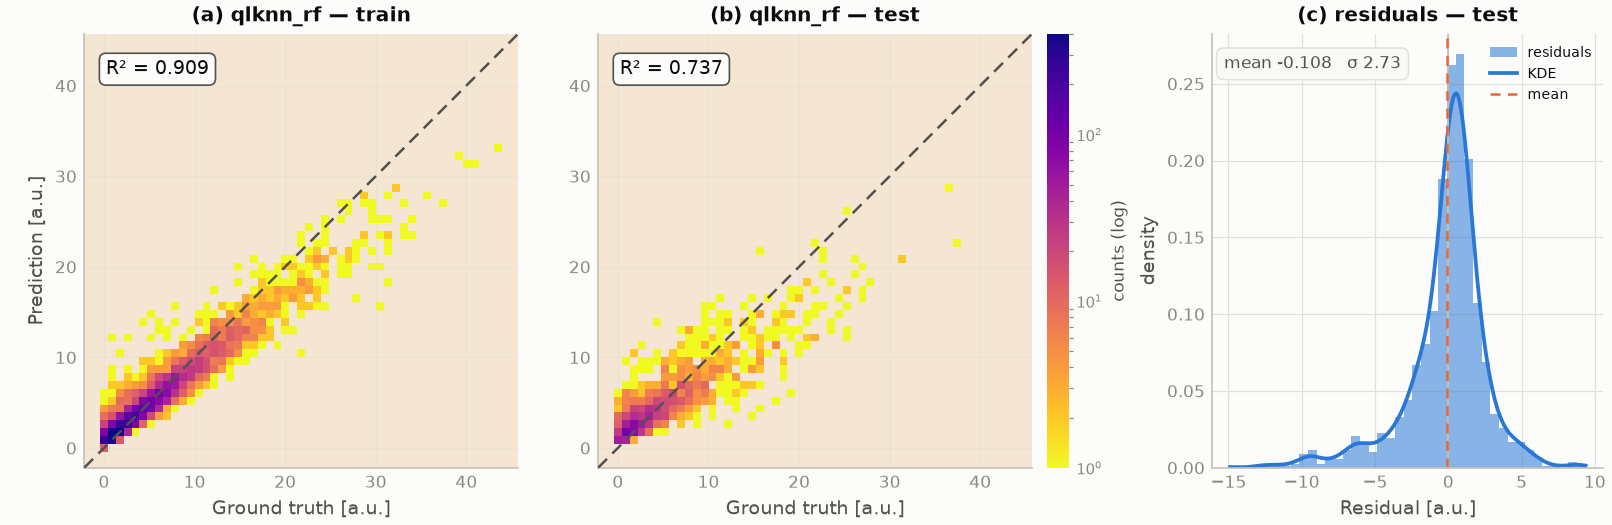
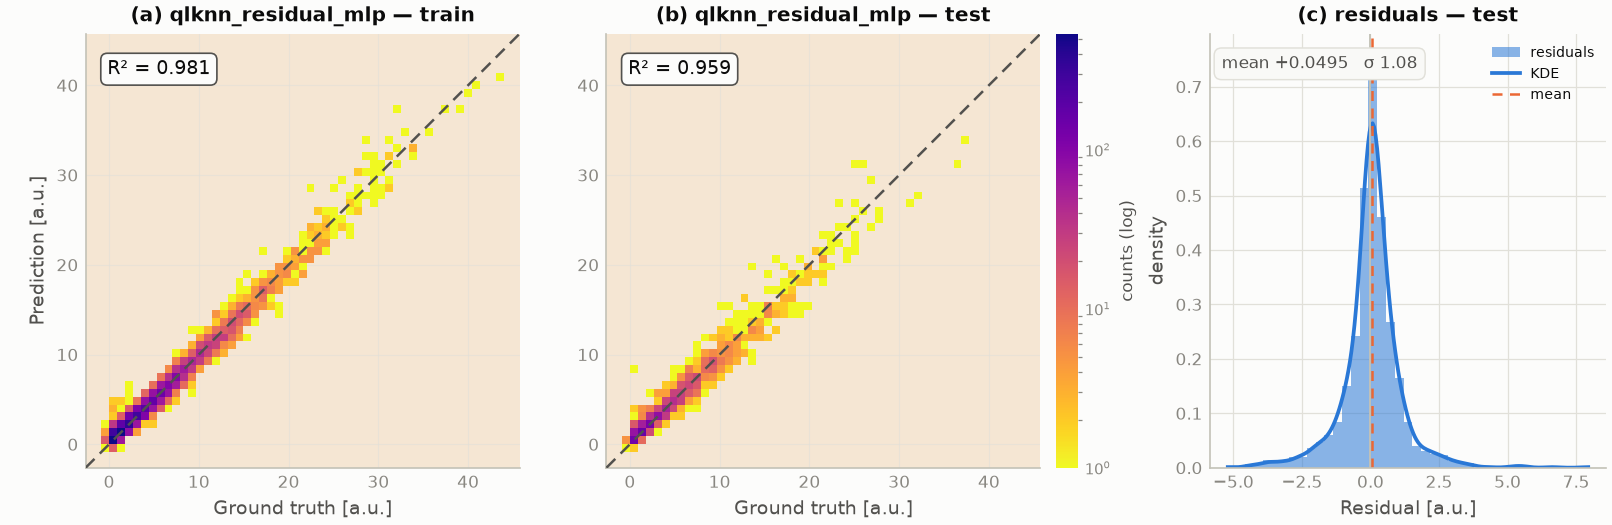
docs(readme): architecture poster hero, publications, monitoring/MLflow, strongest results
- scripts/make_architecture_poster.py renders the by-functionality
  architecture panel (ingest/characterize -> model/optimize ->
  evaluate/quantify -> report/deploy) with real result thumbnails and a
  provenance strip; docs/assets/readme/architecture.png becomes the
  README hero (Burgers figure moves into the results grid)
- parity showcase now uses the strongest model in the run (HPO-tuned
  residual MLP, R2 0.98 train / 0.96 test) instead of the RF baseline;
  gallery + readme assets refreshed (incl. characterization with the
  PCA panel)
- results grid gains training-monitoring (per-epoch JSONL curves) with
  the MLflow opt-in noted, ordered science-first
- 'SURGE in publications' section: Nuclear Fusion ICRF surrogate paper
  and EPJ Web of Conferences (RF Power in Plasmas 2026, art. 01005)

diff --git a/scripts/make_architecture_poster.py b/scripts/make_architecture_poster.py
@@ -1,0 +1,155 @@
+#!/usr/bin/env python3
+"""Render the SURGE architecture poster (README hero figure).
+
+A single panel that explains the workflow BY FUNCTIONALITY, with real
+result thumbnails embedded per stage — regenerated, never hand-drawn:
+
+    INGEST & CHARACTERIZE -> MODEL & OPTIMIZE -> EVALUATE & QUANTIFY
+    -> REPORT & DEPLOY, over a provenance strip.
+
+Usage (from repo root):
+    python scripts/make_architecture_poster.py \
+        [--assets docs/assets/gallery] [--out docs/assets/readme/architecture]
+"""
+from __future__ import annotations
+
+import argparse
+import sys
+from pathlib import Path
+
+_REPO = Path(__file__).resolve().parent.parent
+if str(_REPO) not in sys.path:
+    sys.path.insert(0, str(_REPO))
+
+import matplotlib
+
+matplotlib.use("Agg")
+import matplotlib.image as mpimg
+import matplotlib.pyplot as plt
+from matplotlib.patches import FancyArrowPatch, FancyBboxPatch
+
+from surge.viz.theme import save_figure, surge_theme
+
+COLUMNS = [
+    {
+        "title": "1 · INGEST &\nCHARACTERIZE",
+        "chips": ["CSV · Parquet · HDF5", "NetCDF · Pickle · sim dirs",
+                  "schema inference", "PCA · SNR · correlations"],
+        "thumb": "characterization.png",
+        "caption": "dataset characterization",
+    },
+    {
+        "title": "2 · MODEL &\nOPTIMIZE",
+        "chips": ["40+ adapters, one registry", "sklearn · PyTorch · Keras/TF",
+                  "GPflow · XGB/LGBM/CatBoost", "Optuna HPO (TPE · BoTorch)"],
+        "thumb": "hpo_convergence.png",
+        "caption": "HPO with starred bests",
+    },
+    {
+        "title": "3 · EVALUATE &\nQUANTIFY",
+        "chips": ["held-out metrics per split", "parity · residuals · fields",
+                  "GP credible bands (UQ)", "classification + calibration"],
+        "thumb": "parity.png",
+        "caption": "train/test parity density",
+    },
+    {
+        "title": "4 · REPORT &\nDEPLOY",
+        "chips": ["benchmark leaderboards", "self-contained HTML report",
+                  "MLflow tracking (opt-in)", "ONNX / .keras / joblib export"],
+        "thumb": "leaderboard.png",
+        "caption": "leaderboard vs thresholds",
+    },
+]
+
+PROVENANCE = ("every run reproducible from runs/<tag>/ :   spec.yaml   ·   "
+              "git revision   ·   environment   ·   metrics.json   ·   "
+              "model card   ·   parquet predictions   ·   training logs")
+
+
+def build(assets: Path, mode: str = "light"):
+    with surge_theme(mode) as p:
+        fig = plt.figure(figsize=(12.4, 6.4))
+        ax = fig.add_axes([0, 0, 1, 1])
+        ax.set_xlim(0, 100)
+        ax.set_ylim(0, 100)
+        ax.axis("off")
+        fig.patch.set_facecolor(p["page"])
+
+        ax.text(3, 94.5, "SURGE", fontsize=26, fontweight="bold",
+                color=p["ink"], va="center")
+        ax.text(14.5, 94.5,
+                "one declarative workflow for scientific surrogate models "
+                "— YAML in, reproducible science out",
+                fontsize=12.5, color=p["ink2"], va="center")
+
+        col_w, gap, x0, y0, col_h = 22.0, 2.0, 3.0, 14.5, 72.0
+        for i, col in enumerate(COLUMNS):
+            x = x0 + i * (col_w + gap)
+            ax.add_patch(FancyBboxPatch(
+                (x, y0), col_w, col_h,
+                boxstyle="round,pad=0.6,rounding_size=1.4",
+                facecolor=p["surface"], edgecolor=p["grid"], linewidth=1.2))
+            ax.add_patch(FancyBboxPatch(
+                (x, y0 + col_h - 1.2), col_w, 1.2,
+                boxstyle="round,pad=0.0,rounding_size=0.5",
+                facecolor=p["series"][i % 4], edgecolor="none", alpha=0.9))
+            ax.text(x + col_w / 2, y0 + col_h - 6.5, col["title"],
+                    ha="center", va="center", fontsize=11.5,
+                    fontweight="bold", color=p["ink"], linespacing=1.3)
+
+            for j, chip in enumerate(col["chips"]):
+                cy = y0 + col_h - 13.5 - j * 4.6
+                ax.text(x + col_w / 2, cy, chip, ha="center", va="center",
+                        fontsize=8.4, color=p["ink2"],
+                        bbox={"boxstyle": "round,pad=0.32",
+                              "facecolor": p["page"],
+                              "edgecolor": p["grid"], "linewidth": 0.7})
+
+            thumb_path = assets / col["thumb"]
+            if thumb_path.exists():
+                img = mpimg.imread(thumb_path)
+                ih, iw = img.shape[:2]
+                band_lo, band_hi = y0 + 6.0, y0 + 33.0   # fixed image band
+                tw = col_w - 3.0
+                th = tw * ih / iw * (12.4 / 6.4)
+                if th > band_hi - band_lo:               # too tall: shrink
+                    tw *= (band_hi - band_lo) / th
+                    th = band_hi - band_lo
+                cy = (band_lo + band_hi - th) / 2        # center in band
+                cx = x + (col_w - tw) / 2
+                iax = fig.add_axes([cx / 100, cy / 100, tw / 100, th / 100])
+                iax.imshow(img)
+                iax.axis("off")
+            ax.text(x + col_w / 2, y0 + 3.4, col["caption"],
+                    ha="center", va="center", fontsize=7.6,
+                    style="italic", color=p["muted"])
+
+        for i in range(len(COLUMNS) - 1):
+            xa = x0 + (i + 1) * col_w + i * gap + 0.35
+            ax.add_patch(FancyArrowPatch(
+                (xa, y0 + col_h * 0.55), (xa + gap - 0.7, y0 + col_h * 0.55),
+                arrowstyle="-|>", mutation_scale=16,
+                color=p["ink2"], linewidth=1.6))
+
+        ax.add_patch(FancyBboxPatch(
+            (x0, 4.2), 4 * col_w + 3 * gap, 6.6,
+            boxstyle="round,pad=0.5,rounding_size=1.2",
+            facecolor=p["surface"], edgecolor=p["series"][0],
+            linewidth=1.2))
+        ax.text(x0 + (4 * col_w + 3 * gap) / 2, 7.5, PROVENANCE,
+                ha="center", va="center", fontsize=8.8, color=p["ink2"])
+        return fig
+
+
+def main() -> None:
+    ap = argparse.ArgumentParser()
+    ap.add_argument("--assets", default=str(_REPO / "docs/assets/gallery"))
+    ap.add_argument("--out", default=str(_REPO / "docs/assets/readme/architecture"))
+    args = ap.parse_args()
+    fig = build(Path(args.assets))
+    for path in save_figure(fig, Path(args.out), formats=("png",)):
+        print("wrote", path)
+
+
+if __name__ == "__main__":
+    main()

diff --git a/examples/viz_theme_gallery.py b/examples/viz_theme_gallery.py
@@ -85,7 +85,10 @@ def parity_figure(run_dir: Path, mode: str, units: str = "a.u."):
     from sklearn.metrics import r2_score
 
     metrics = json.loads((run_dir / "metrics.json").read_text())
-    model_key = next(iter(metrics))
+    # showcase the strongest model in the run (highest test R²)
+    model_key = max(
+        metrics,
+        key=lambda k: (metrics[k].get("test") or {}).get("r2", float("-inf")))
     splits = {}
     for split in ("train", "test"):
         try:

diff --git a/README.md b/README.md
@@ -17,14 +17,13 @@ with every run reproducible from its own `runs/<tag>/` directory.
 [DOI 10.11578/dc.20260422.5](https://doi.org/10.11578/dc.20260422.5)
 
 <p align="center">
-  <img src="docs/assets/readme/field_operator.png"
-       alt="Burgers' 1D operator learning: best/median/worst test samples, signed-error field, and error distribution — generated by SURGE from run artifacts"
-       width="820"/>
+  <img src="docs/assets/readme/architecture.png"
+       alt="SURGE architecture: ingest & characterize, model & optimize, evaluate & quantify, report & deploy — with real result figures embedded per stage and a provenance strip"
+       width="900"/>
 </p>
-<p align="center"><sub><em>Operator learning on viscous Burgers' equation
-(residual MLP via the SURGE registry): sample fits, signed-error field over
-the test set, and per-sample error distribution — every figure generated
-from run artifacts, never hand-assembled.</em></sub></p>
+<p align="center"><sub><em>The workflow by functionality — every thumbnail is a
+real SURGE output, regenerated from run artifacts
+(<code>python scripts/make_architecture_poster.py</code>).</em></sub></p>
 
 ---
 
@@ -89,9 +88,11 @@ sortable tables — generated exclusively from
 | | |
 |:---:|:---:|
 | <img src="docs/assets/readme/parity.png" width="400" alt="Train/test parity density plots with reversed-plasma colormap and R² boxes"/> | <img src="docs/assets/readme/hpo_convergence.png" width="400" alt="HPO history with running best and starred best trials"/> |
-| *Regression parity (QLKNN ITG heat-flux surrogate): log-scaled density, R² 0.91 train / 0.74 test for the RF baseline — the HPO-tuned residual MLP reaches 0.96 test.* | *Optuna HPO across models: per-trial traces, running best, gold star at each optimum.* |
-| <img src="docs/assets/readme/uncertainty.png" width="400" alt="GP surrogate with 68/95% credible bands"/> | <img src="docs/assets/readme/characterization.png" width="400" alt="Dataset characterization panel"/> |
-| *Gaussian-process surrogate with 68/95% credible bands — the band widens where training data is absent (96% truth coverage).* | *Pre-training dataset characterization: distributions, signal-to-noise, input–target correlations.* |
+| *Plasma-transport surrogate (QLKNN ITG heat flux): HPO-tuned residual MLP, R² **0.98 train / 0.96 test**, log-density parity in the style of the ICRF surrogate papers.* | *Optuna HPO across models: per-trial traces, running best, gold star at each optimum.* |
+| <img src="docs/assets/readme/field_operator.png" width="400" alt="Burgers operator learning: sample fits, signed-error field, error distribution"/> | <img src="docs/assets/readme/uncertainty.png" width="400" alt="GP surrogate with 68/95% credible bands"/> |
+| *Operator learning on viscous Burgers' equation: best/median/worst test samples, signed-error field, per-sample rel-L2 distribution.* | *Gaussian-process surrogate with 68/95% credible bands — the band widens where training data is absent (96% truth coverage).* |
+| <img src="docs/assets/gallery/training_curves.png" width="400" alt="Training monitoring: train/val loss with generalisation gap and best epoch"/> | <img src="docs/assets/readme/characterization.png" width="400" alt="Dataset characterization panel with PCA spectrum"/> |
+| *Live training monitoring from per-epoch JSONL logs: generalisation gap shaded, best epoch starred; opt-in MLflow tracking mirrors every run (`mlflow_tracking: true` in the spec, or `surge bench --mlflow`).* | *Pre-training dataset characterization: distributions, signal-to-noise, input–target correlations, PCA effective dimensionality.* |
 
 Regenerate everything above from your own runs — full gallery per
 problem type in [`docs/gallery.md`](docs/gallery.md):
@@ -276,10 +277,21 @@ Gallery of every figure type: `python examples/viz_theme_gallery.py`.
 | Architecture roadmap | [`docs/design/ARCHITECTURE_RECOMMENDATIONS.md`](docs/design/ARCHITECTURE_RECOMMENDATIONS.md) |
 | Doc index | [`docs/README.md`](docs/README.md) |
 
-SURGE methodology in the literature: Á. Sánchez-Villar et al.,
-*real-time capable ICRF heating surrogates for NSTX-U and WEST*
-(Nuclear Fusion) — the parity/HPO figure conventions above follow those
-publications.
+## SURGE in publications
+
+The methodology and figure conventions above come from peer-reviewed
+surrogate-modeling work by the SURGE authors:
+
+- Á. Sánchez-Villar *et al.*, *Real-time capable modeling of ICRF heating
+  on NSTX-U and WEST via machine-learning approaches*, **Nuclear Fusion**.
+- Á. Sánchez-Villar *et al.*, *Automated ICRF-heating surrogate modeling
+  via machine learning*, **EPJ Web of Conferences** (RF Power in Plasmas,
+  2026), art. 01005 —
+  [epj-conferences.org](https://www.epj-conferences.org/articles/epjconf/abs/2026/02/epjconf_rfppc2026_01005/epjconf_rfppc2026_01005.html).
+
+Software citation: [DOE CODE 179819](https://www.osti.gov/doecode/biblio/179819),
+DOI [10.11578/dc.20260422.5](https://doi.org/10.11578/dc.20260422.5),
+[`CITATION.cff`](CITATION.cff).
 
 ---
 
